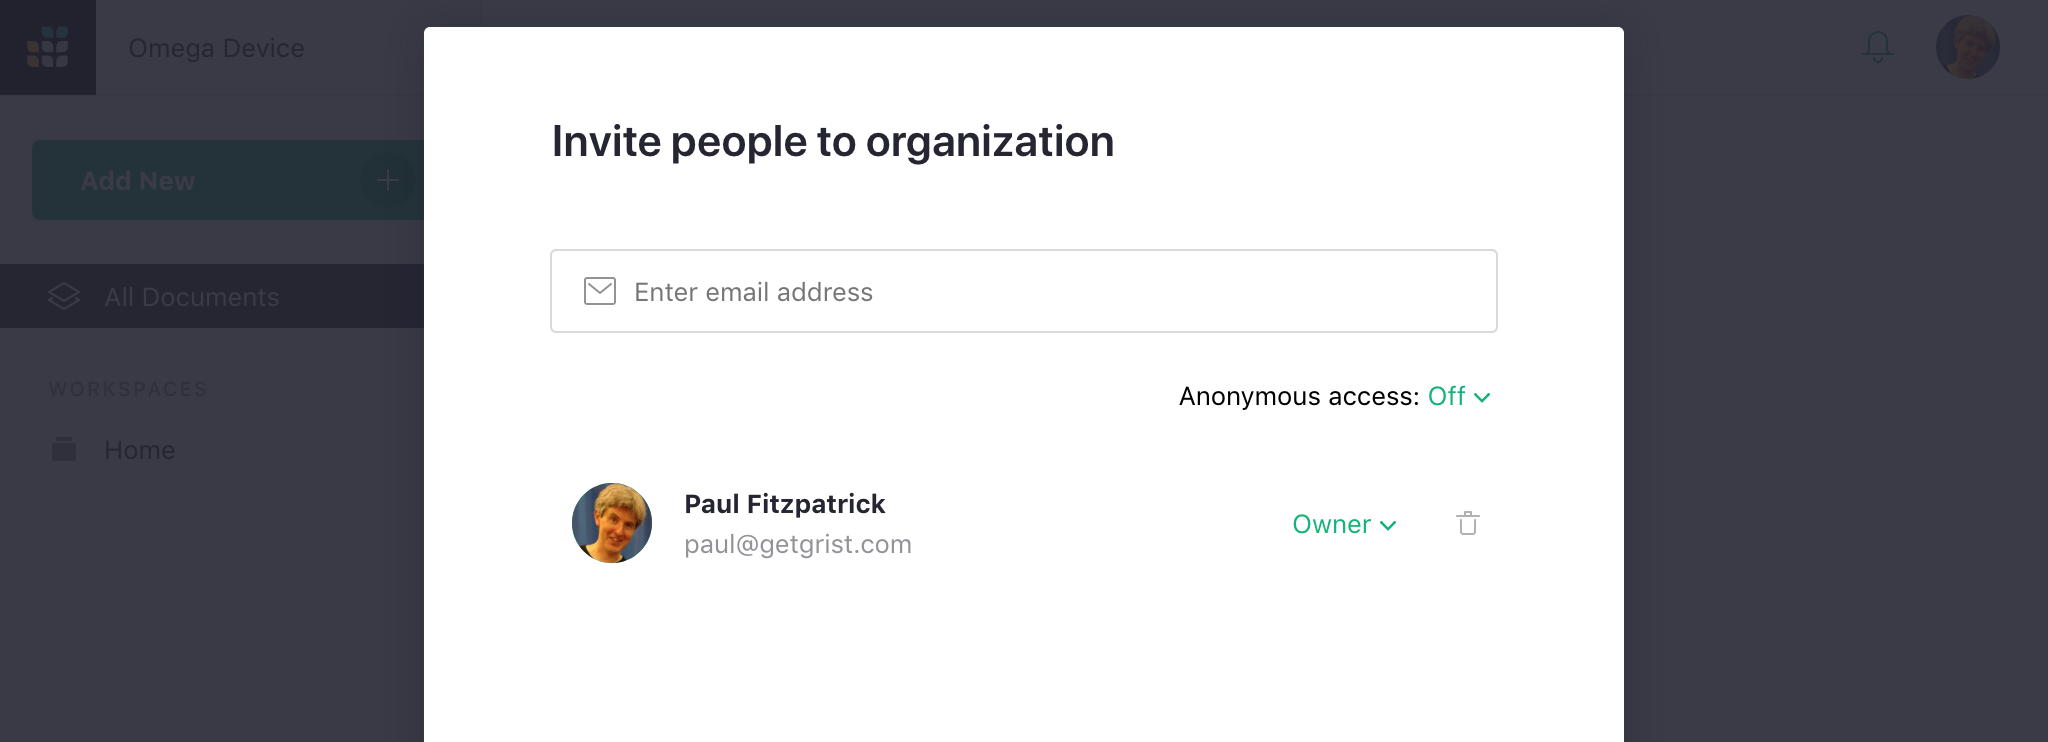
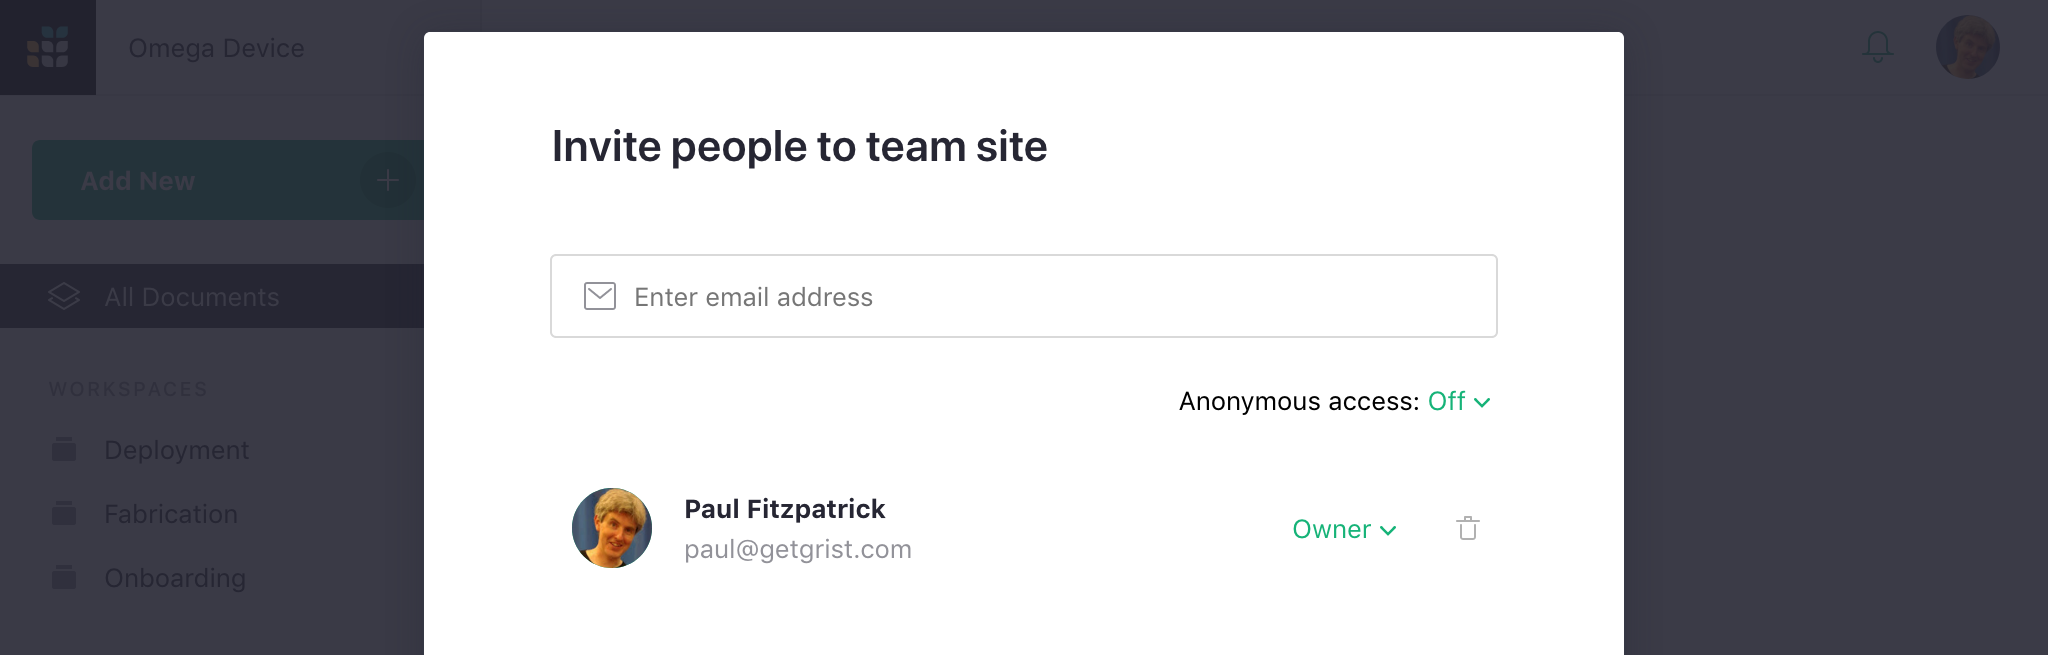
freshen some screenshots, add client libraries, cleanup

diff --git a/help/team-sharing.md b/help/team-sharing.md
@@ -41,10 +41,10 @@ For a team site you own,
 you can [create documents](creating-doc.md), [create workspaces](workspaces.md),
 or immediately start sharing the site with others.
 To share the site, click on the circle with your profile picture or initial
-on the top right of the screen.  Then select the "Organization Settings"
+on the top right of the screen.  Then select the "Manage Users"
 option.
 
-![team-sharing-organization-settings](images/team-sharing/team-sharing-organization-settings.png)
+![team-sharing-manage-users](images/team-sharing/team-sharing-manage-users.png)
 
 You can now invite people just as you did for individual documents in
 [Sharing](sharing.md).

diff --git a/help/rest-api.md b/help/rest-api.md
@@ -26,7 +26,7 @@ You'll then have the option to create a new one if you wish.
 
 To test your api key, try this from the command-line (substituting
 your api key):
-```
+```sh
 curl -H "Authorization: Bearer API-KEY-GOES-HERE" https://docs.getgrist.com/api/orgs
 ```
 
@@ -34,3 +34,8 @@ You should get a list of organizations (this is what the API calls team sites
 and personal areas).
 
 For details of the api available, see our [API docs](api-docs.html).
+
+There are also client libraries available:
+
+ * [Javascript/Typescript client library](https://www.npmjs.com/package/grist-api)
+ * [Python client library](https://pypi.org/project/grist-api/)
